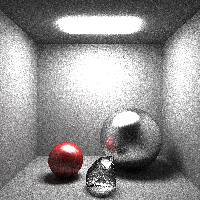
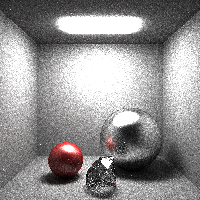
symmetric refraction BSDF

diff --git a/render3d/material.go b/render3d/material.go
@@ -325,13 +325,19 @@ func (r *RefractPhongMaterial) refractInverse(normal, dest model3d.Coord3D) mode
 }
 
 func (r *RefractPhongMaterial) BSDF(normal, source, dest model3d.Coord3D) Color {
-	refracted := r.refract(normal, source)
-	scale := math.Pow(math.Max(0, refracted.Dot(dest)), r.Alpha)
-	scale *= r.Alpha + 1
-	if !r.NoFluxCorrection {
-		scale /= maximumCosine(source.Dot(normal), dest.Dot(normal))
+	var totalScale float64
+	// Enforce symmetry of the BSDF.
+	for i := 0; i < 2; i++ {
+		refracted := r.refract(normal, source)
+		scale := math.Pow(math.Max(0, refracted.Dot(dest)), r.Alpha)
+		scale *= r.Alpha + 1
+		if !r.NoFluxCorrection {
+			scale /= maximumCosine(source.Dot(normal), dest.Dot(normal))
+		}
+		totalScale += scale
+		source, dest = dest, source
 	}
-	return r.RefractColor.Scale(2 * scale)
+	return r.RefractColor.Scale(totalScale)
 }
 
 func (r *RefractPhongMaterial) SampleSource(normal, dest model3d.Coord3D) model3d.Coord3D {

diff --git a/render3d/material_test.go b/render3d/material_test.go
@@ -2,6 +2,7 @@ package render3d
 
 import (
 	"fmt"
+	"math"
 	"testing"
 
 	"github.com/unixpickle/model3d"
@@ -41,6 +42,28 @@ func TestRefractPhongMaterialSampling(t *testing.T) {
 					RefractColor:      Color{X: 1, Y: 0.9, Z: 0.5},
 				})
 			})
+		}
+	}
+}
+
+func TestRefractPhongMaterialBidir(t *testing.T) {
+	mat := &RefractPhongMaterial{
+		Alpha:             2.0,
+		IndexOfRefraction: 1.3,
+		RefractColor:      Color{X: 1, Y: 1, Z: 1},
+	}
+	for i := 0; i < 1000; i++ {
+		source := model3d.NewCoord3DRandUnit()
+		dest := model3d.NewCoord3DRandUnit()
+		normal := model3d.NewCoord3DRandUnit()
+		if math.Abs(source.Dot(normal)) < 1e-3 || math.Abs(dest.Dot(normal)) < 1e-3 {
+			i--
+			continue
+		}
+		color1 := mat.BSDF(normal, source, dest)
+		color2 := mat.BSDF(normal, dest, source)
+		if color1.Sub(color2).Norm() > 1e-5 {
+			t.Errorf("source->dest=%f but dest->source=%f", color1.X, color2.X)
 		}
 	}
 }
